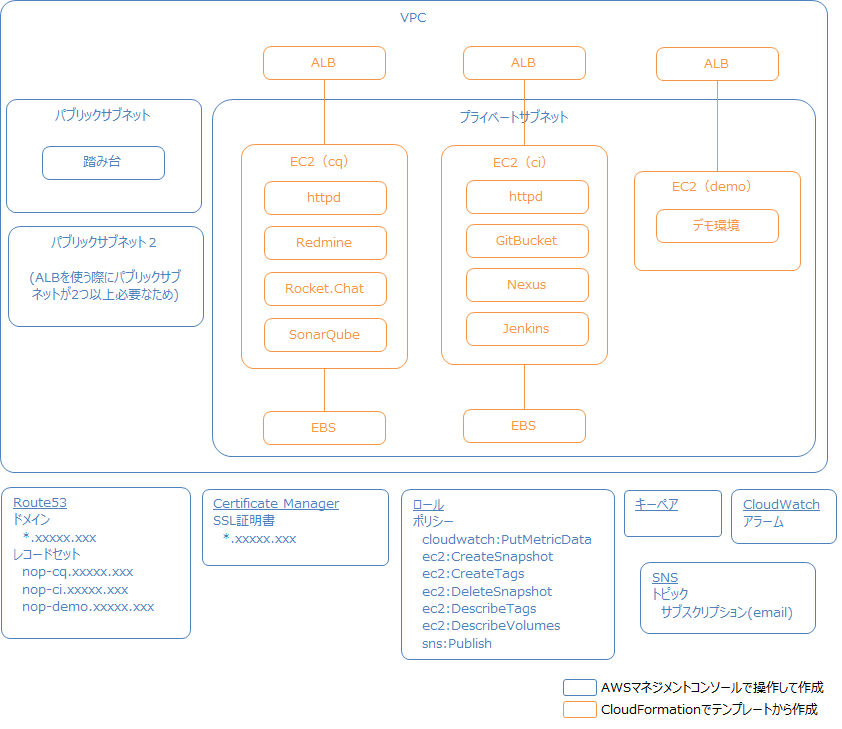
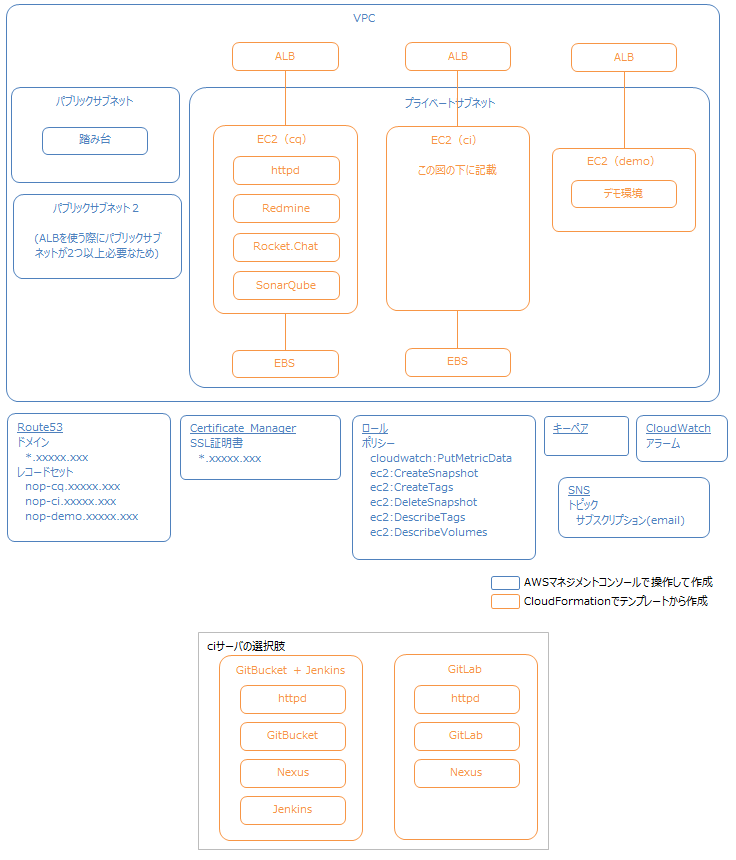
GitLabの構成図をついか

diff --git a/doc/aws.md b/doc/aws.md
@@ -24,7 +24,7 @@ AWS
   - Demoサーバ
 - CQ/CIサーバのEC2はm4.large、ルートボリューム20GB、データボリューム40GBでデフォルト提供します。
 - Demoサーバはt2.small、ルートボリューム20GBでデフォルト提供します。
-- Concourse/GitLabを使う場合は、Concourse/GitLabがリソースを消費するため、CIサーバのEC2のみ、m4.xlarge、ルートボリューム40GB、データボリューム40GBでデフォルト提供します。
+- GitLabを使う場合は、GitLabがリソースを消費するため、CIサーバのEC2のみ、m4.xlarge、ルートボリューム40GB、データボリューム40GBでデフォルト提供します。
 - **上記のマシンスペックは推奨する最低限のスペックになります。PJの規模に合わせて変更してください。**
 
 
@@ -113,7 +113,7 @@ AWS
 - インストールにはCollaborageが提供するAMIを使用します。AMIはパブリックイメージとして公開しています。
   - CQサーバ： nop-dev-cq-0.1.6
   - CIサーバ(GitBucket/Jenkins)： nop-dev-ci-jenkins-0.1.6
-  - CIサーバ(GitLab/Concourse)： nop-dev-ci-concourse-0.1.6
+  - CIサーバ(GitLab)： nop-dev-ci-concourse-0.1.6
   - Demoサーバ： nop-inst-demo-0.1.4
 
 ### 作業PC
@@ -148,15 +148,15 @@ AWS
   $ git clone https://github.com/Fintan-contents/collaborage.git
   $ cd collaborage
   ```
-- 作業場所を作成します。作業場所のディレクトリ、CIツール(GitBucket/Jenkins or GitLab/Concourse)を決めてください。特に希望がなければ、情報が多く、リソース消費が少ない(つまり低コスト)、Jenkinsを使ってください。
+- 作業場所を作成します。作業場所のディレクトリ、CIツール(GitBucket/Jenkins or GitLab)を決めてください。特に希望がなければ、情報が多く、リソース消費が少ない(つまり低コスト)、Jenkinsを使い、コードレビューをGitリポジトリ上で行いたい場合はGitLabを使うと指摘の管理が楽になります。
   - ユーザのnopディレクトリにJenkinsで作る場合
     ```
     $ ./init-workplace.sh ~/nop aws jenkins
     $ cd ~/nop
     ```
-  - ユーザのnopディレクトリにConcourseで作る場合
+  - ユーザのnopディレクトリにGitLabで作る場合
     ```
-    $ ./init-workplace.sh ~/nop aws concourse
+    $ ./init-workplace.sh ~/nop aws gitlab
     $ cd ~/nop
     ```
 
@@ -171,7 +171,7 @@ AWS
     ```
     nop/template/nop-with-ssl-jenkins.yaml
     ```
-  - Concourseを使う場合
+  - GitLabを使う場合
     ```
     nop/template/nop-with-ssl-concourse.yaml
     ```
@@ -194,7 +194,7 @@ AWS
         - ![IAMのロール](images/aws-iam-role.png)
     - Ec2TypeForCi
       - CIサーバのインスタンスタイプを指定します。
-      - Jenkinsを使う場合は「m4.large」、Concourseを使う場合は「m4.xlarge」ぐらいあれば大丈夫だと思います。
+      - Jenkinsを使う場合は「m4.large」、GitLabを使う場合は「m4.xlarge」ぐらいあれば大丈夫だと思います。
     - Ec2TypeForCq
       - Communication/Qualityサーバのインスタンスタイプを指定します。
       - 「m4.large」ぐらいあれば大丈夫だと思います。
